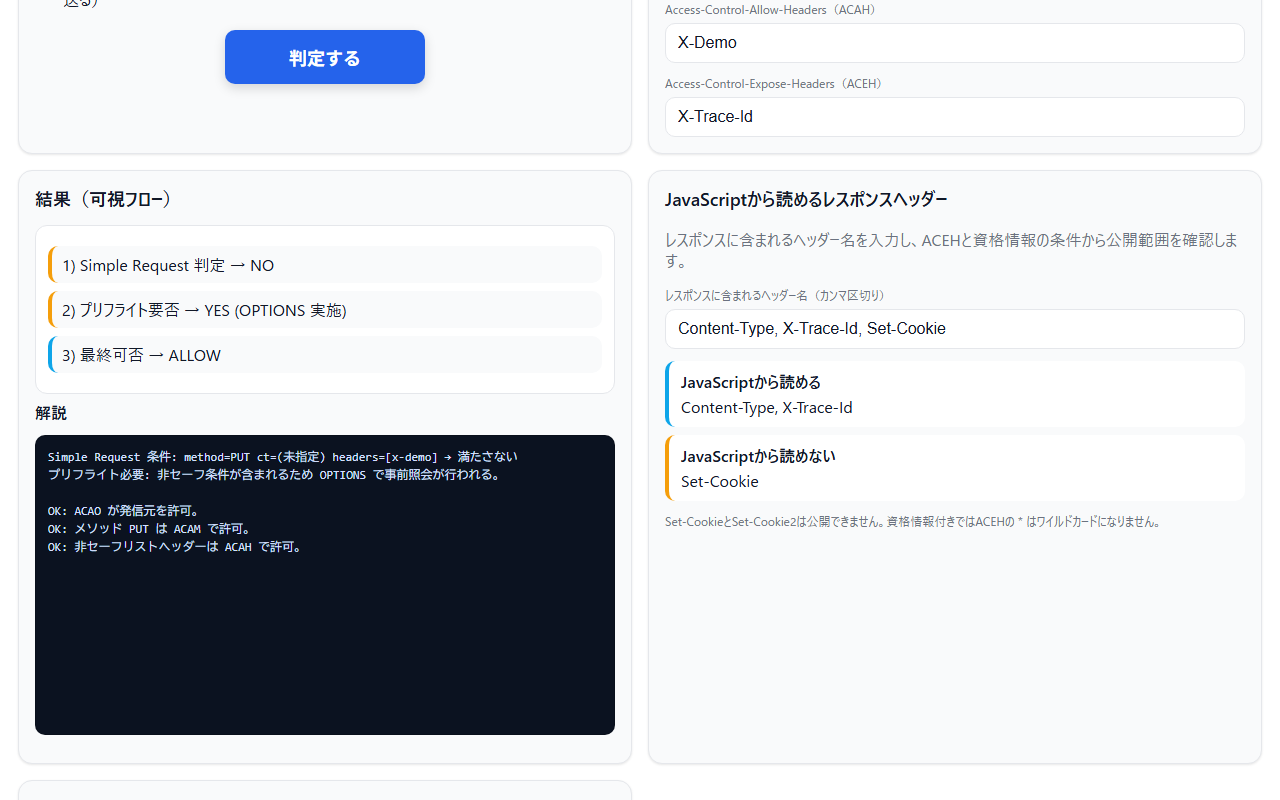
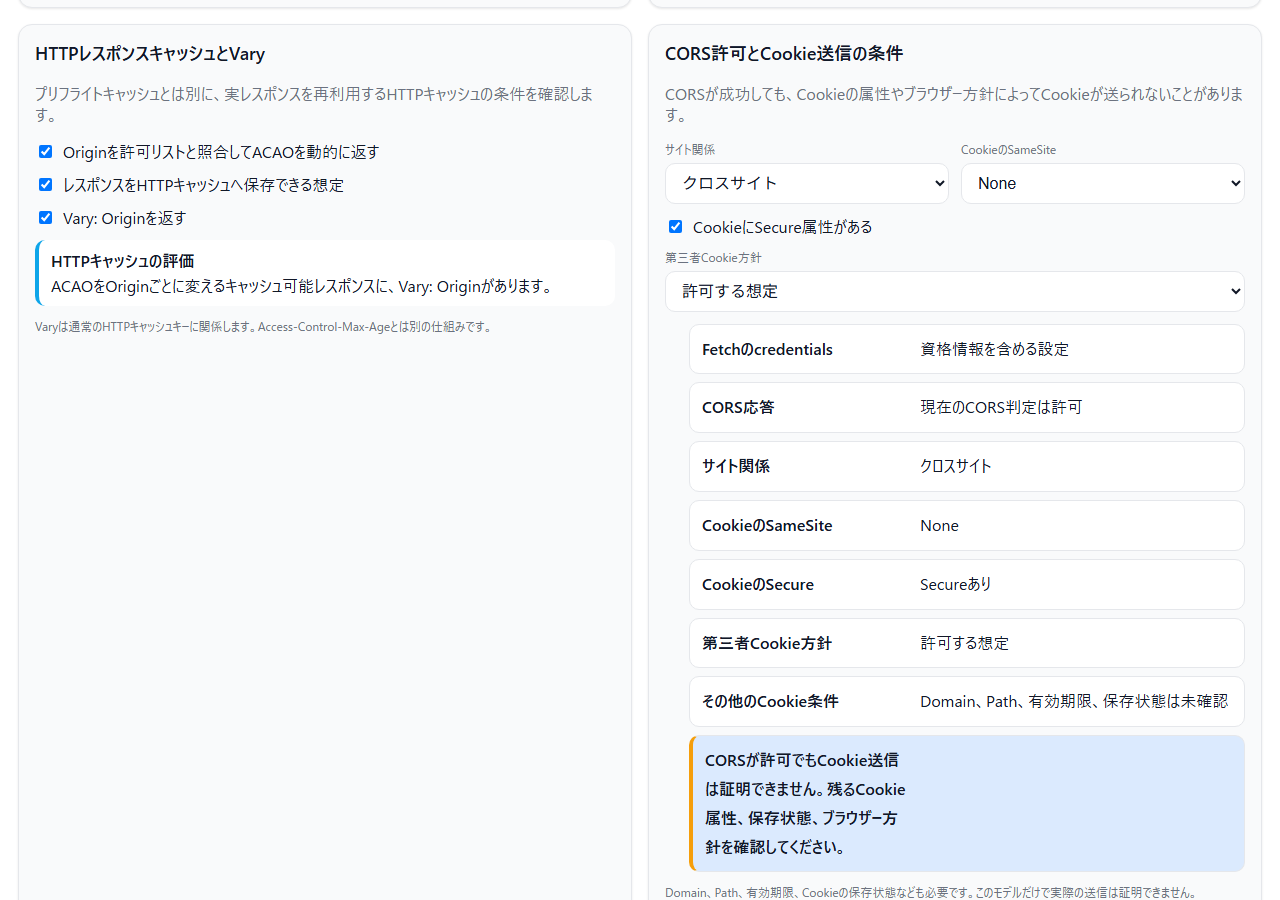
READMEと技術資料を新しい学習項目へ同期

diff --git a/test/readme.test.js b/test/readme.test.js
@@ -60,7 +60,21 @@ test('limits and diagnostic boundaries are equally documented', () => {
     assert.match(markdown, /sessionStorage/);
     assert.match(markdown, /Live Fetch/);
     assert.match(markdown, /postMessage/);
+    assert.match(markdown, /Vary: Origin/);
+    assert.match(markdown, /SameSite/);
+    assert.match(markdown, /Secure/);
+    assert.match(markdown, /Domain/);
+    assert.match(markdown, /Path/);
   }
+});
+
+test('both READMEs separate CORS permission, cookie transmission, and HTTP caching', () => {
+  assert.match(ja, /CORS許可だけではCookie送信を証明しない/);
+  assert.match(en, /CORS success does not prove that a cookie was sent/);
+  assert.match(ja, /プリフライトキャッシュとは別/);
+  assert.match(en, /separately from the preflight cache/);
+  assert.match(ja, /本リクエストが送られない/);
+  assert.match(en, /stops before the actual request/);
 });
 
 test('all local Markdown links resolve', () => {

diff --git a/README.md b/README.md
@@ -62,7 +62,7 @@ hub: true
 ## 📸 スクリーンショット
 
 >![CORS判定シミュレーター](assets/screenshot.png)
->*プリフライト判定と、ACEHによるレスポンスヘッダーの公開範囲を根拠付きで表示*
+>*HTTPレスポンスキャッシュのVary条件と、CORSとは別のCookie送信条件を根拠付きで表示*
 >
 >![CSPで許可されていない接続先の説明](assets/screenshot2.png)
 >*CSPによる事前拒否をCORSエラーと区別*
@@ -132,9 +132,12 @@ hub: true
   - 実験結果の比較まとめ表を提供
 - **入力フォーム**：メソッド、ヘッダー、Content-Type、Credentialsを自由に指定可能
 - **判定結果**：シンプルリクエスト判定 → プリフライト要否 → 最終可否を **フローチャート形式** で視覚化
+- **HTTP通信フロー**：OPTIONS、本リクエスト、本レスポンス、JavaScriptからの読取を順に表示し、プリフライト拒否時は本リクエストが送られないことを明示
 - **レスポンスヘッダー公開判定**：CORS safelisted response-headerとACEHから、JavaScriptで読める名前を確認
   - `Set-Cookie`と`Set-Cookie2`はACEHへ列挙しても公開しない
 - **プリフライトキャッシュモデル**：`Access-Control-Max-Age`と2回目の要求時刻を時間軸で比較
+- **HTTPレスポンスキャッシュ**：オリジンごとにACAOを変える応答について、`Vary: Origin`の有無を確認。プリフライトキャッシュとは別の仕組みとして扱う
+- **Cookie送信条件**：CORS応答の許可と、SameSite・Secure・第三者Cookie方針などの送信条件を分けて確認。CORS許可だけではCookie送信を証明しない
 - **共有リンク**：秘密値を含まないシミュレーター条件をURLフラグメントで共有し、同じ結果まで自動復元
 - **言語切替の状態保持**：安全なシミュレーター入力、選択タブ、折りたたみ状態だけを同一タブの`sessionStorage`で一時保持
 - 各判定結果には詳細な根拠説明が表示される
@@ -158,11 +161,12 @@ hub: true
 | シンプルリクエストを作れ | `GET`＋セーフリストヘッダーでプリフライトなしの成功例を確認 |
 | プリフライトを引き起こせ | `POST`＋`Content-Type: application/json` で OPTIONS 発生 |
 | ヘッダーが原因 | `Authorization: Bearer ...` が非セーフリストであることを確認 |
-| Cookieを伴うリクエスト | `withCredentials: true` 時の `ACAC` 必須条件を体験 |
+| Cookieを伴うリクエスト | CORS側の`ACAC`と、SameSite・Secure・第三者Cookie方針を別々に確認 |
 | ワイルドカードの罠 | `ACAO: *` と `withCredentials: true` の併用禁止を確認 |
 | メソッド不一致 | `DELETE` 送信時、`ACAM: GET, POST` のレスでブロックされる例を観察 |
 | ACEHのワイルドカード | 資格情報なし／ありで、`ACEH: *`から読めるレスポンスヘッダーが変わることを比較 |
 | プリフライトキャッシュ | Max-Ageの期限内・期限ちょうど・条件変更で、2回目のOPTIONSモデルが変わることを比較 |
+| 動的ACAOとHTTPキャッシュ | オリジンごとに応答を変える場合の`Vary: Origin`を確認 |
 
 ---
 
@@ -369,6 +373,8 @@ hub: true
 - サーバー設定や認可の安全性を監査すること
 - DevToolsやサーバーログを使わず、実際のOPTIONS応答を確認すること
 - プリフライトキャッシュの実際の上限、早期削除、OPTIONS省略を証明すること
+- CORS許可だけから、Cookieが送信されたことを証明すること。Domain、Path、有効期限、保存状態、SameSite、Secure、ブラウザー方針などは別途確認が必要です
+- `Vary: Origin`の表示は、入力したキャッシュ条件の教育用評価です。実際のCDN・プロキシー・ブラウザーキャッシュの保存や再利用を観測するものではありません
 
 #### 📋 セキュリティ問題の報告
 もしセキュリティ上の問題を発見された場合は、GitHubのIssuesから報告してください。

diff --git a/README.en.md b/README.en.md
@@ -25,7 +25,7 @@ At the root URL, the initial language follows `?lang=ja|en`, a saved choice, and
 ## 📸 Screenshots
 
 >![CORS decision simulator](assets/en/screenshot.png)
->*A reasoned preflight decision and ACEH response-header exposure result*
+>*HTTP response-cache Vary conditions and cookie transmission conditions shown separately from CORS permission*
 >
 >![CSP destination restriction](assets/en/screenshot2.png)
 >*A CSP block identified before it can be mistaken for CORS*
@@ -74,6 +74,9 @@ The simulator is an educational model, not a scanner or proof of server-side beh
 - Separates response headers readable by JavaScript using the response-header safelist and ACEH, including the credentials wildcard rule.
   - `Set-Cookie` and `Set-Cookie2` remain forbidden even when listed in ACEH.
 - Models a second request against `Access-Control-Max-Age` on a timeline; this is not a browser measurement.
+- Shows the HTTP exchange in order: OPTIONS when required, the actual request, the response, and JavaScript readability. A rejected preflight stops before the actual request.
+- Evaluates whether an origin-dependent cacheable response includes `Vary: Origin`, separately from the preflight cache.
+- Separates CORS permission from cookie transmission conditions such as SameSite, Secure, and third-party-cookie policy. CORS success does not prove that a cookie was sent.
 - Creates versioned fragment share links from safe simulator conditions and automatically restores the same result.
 - Keeps only safe simulator inputs, the selected tab, and disclosure state in same-tab `sessionStorage` during a language switch.
 
@@ -92,10 +95,11 @@ The simulator is an educational model, not a scanner or proof of server-side beh
 | Simple GET | No preflight, followed by the response's ACAO check |
 | JSON POST | `Content-Type: application/json` triggers OPTIONS |
 | Authorization | Explicit ACAH permission is required; `ACAH: *` does not match Authorization |
-| Credentialed request | Exact ACAO and case-sensitive `ACAC: true` are required |
+| Credentialed request | Compare exact ACAO and `ACAC: true` with the separate cookie transmission conditions |
 | CSP-restricted URL | The request is stopped before CORS is evaluated |
 | ACEH wildcard | Compare readable response headers with and without credentials |
 | Preflight cache | Compare a second request before expiry, at expiry, and after match conditions change |
+| Dynamic ACAO and HTTP caching | Check `Vary: Origin` when a cacheable response changes by request origin |
 
 ---
 
@@ -181,6 +185,8 @@ A credentialed CORS request cannot use `Access-Control-Allow-Origin: *`. It requ
 - It cannot distinguish CORS, DNS, TLS, offline, and other network failures from a Fetch API `TypeError` alone.
 - It does not audit authentication, authorization, or the security of a production server.
 - The preflight cache timeline cannot prove an implementation's cap, early eviction, or actual omission of OPTIONS.
+- CORS permission cannot prove that a cookie was sent. Domain, Path, expiry, stored state, SameSite, Secure, and browser policy require separate evidence.
+- The `Vary: Origin` result evaluates the entered cache assumptions. It does not observe storage or reuse by a CDN, proxy, or browser cache.
 
 Use DevTools and server-side evidence, and test only systems you are authorized to access.
 

diff --git a/TECHNICAL.md b/TECHNICAL.md
@@ -175,9 +175,17 @@ if(nonSafeReqHeaders.length>0){
 
 ACEHの`*`は資格情報なしの場合だけワイルドカードです。資格情報付きでは文字どおり`*`という名前だけに一致します。`Set-Cookie`と`Set-Cookie2`はforbidden response-header nameのため、明示的に列挙しても公開しません。ACEHの構文が無効な場合は、セーフリスト以外を公開しません。
 
-### 2.4 プリフライトキャッシュと共有状態
+### 2.4 HTTP通信フロー、2種類のキャッシュ、Cookie条件
+
+`buildCorsExchange()`は、判定コアの結果から教育用のHTTP通信フローを組み立てます。シンプルリクエストでは本リクエストを送った後にレスポンスの読取可否を判定します。プリフライトが拒否された場合はOPTIONS応答で止まり、本リクエストを送信しません。画面側で判定を作り直さず、`finalDecision()`と同じ結果を表示に使います。
 
 `modelPreflightCache()`は、Max-Ageと2回目の要求時刻を使い、同じ照合条件を仮定した2イベントの時間軸を返します。Fetch標準のキャッシュキーにはnetwork partition key、origin、URL、credentials、method、header nameが関係します。実装による上限や期限前の削除があるため、この関数はOPTIONSの実測結果を表しません。
+
+`assessVaryOrigin()`は、オリジンごとにACAOを変えるキャッシュ可能なHTTPレスポンスについて`Vary: Origin`を確認します。これは通常のHTTPレスポンスキャッシュの評価であり、`Access-Control-Max-Age`によるプリフライトキャッシュとは別です。CDN、プロキシー、ブラウザーの実キャッシュを観測しません。
+
+`explainCredentialConditions()`は、Fetchのcredentials設定、CORS応答、same-site/cross-site、CookieのSameSite・Secure、第三者Cookie方針を別々に示します。CORS許可はJavaScriptによるレスポンス読取の条件であり、Cookie送信の証明ではありません。Domain、Path、有効期限、保存状態など、画面が検査しない条件も結果に残します。
+
+### 2.5 共有状態
 
 共有リンクは`#cors=v1.<base64url(JSON)>`形式です。`normalizeScenario()`が許可キー、型、列挙値、長さ、数値範囲を検査し、未知キーを拒否します。共有と言語切替の一時保存は同じ安全なシナリオだけを使用し、Live FetchとpostMessageの値・本文・ログを含めません。動的な復元結果は既存の描画関数を呼び直して生成します。
 

diff --git a/CLAUDE.md b/CLAUDE.md
@@ -75,6 +75,9 @@ The application is organized into four tabs, providing a progressive learning pa
      - Non-safe headers must be in `Access-Control-Allow-Headers`
    - Evaluates CORS-safelisted response headers and `Access-Control-Expose-Headers`, including credentials and forbidden response-header names
    - Models `Access-Control-Max-Age` for a second matching request, while explicitly treating the timeline as educational rather than observed browser state
+   - Builds an ordered HTTP exchange from the same core result, including the point where a rejected preflight prevents the actual request
+   - Evaluates `Vary: Origin` for origin-dependent cacheable responses separately from the preflight cache
+   - Explains cookie transmission conditions separately from CORS permission; a successful CORS check never proves that a cookie was sent
    - Creates versioned share fragments from an allowlisted schema and restores the evaluated result
    - Renders visual flow diagram showing decision steps
 
@@ -210,6 +213,9 @@ function needsPreflight(method, headers) {
 
 - `responseHeaderExposure()` applies the response-header safelist, ACEH, the credentials wildcard rule, and the forbidden `Set-Cookie` / `Set-Cookie2` names.
 - `modelPreflightCache()` shows a two-request educational timeline. It does not claim to observe a browser's cache.
+- `buildCorsExchange()` renders request and response stages without duplicating CORS decision rules in the UI layer.
+- `assessVaryOrigin()` concerns ordinary HTTP response caching, not the preflight cache.
+- `explainCredentialConditions()` keeps CORS readability separate from cookie SameSite, Secure, storage, scope, and browser-policy conditions.
 - `encodeScenario()` and `decodeScenario()` use a versioned, length-limited, allowlisted fragment schema.
 - Language-switch state uses the same normalized simulator schema and is consumed from sessionStorage after navigation.
 
